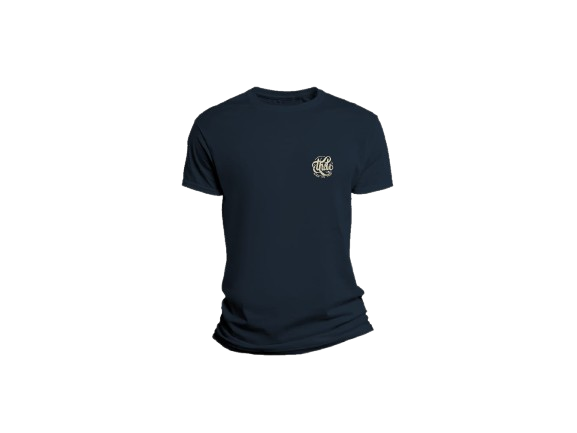
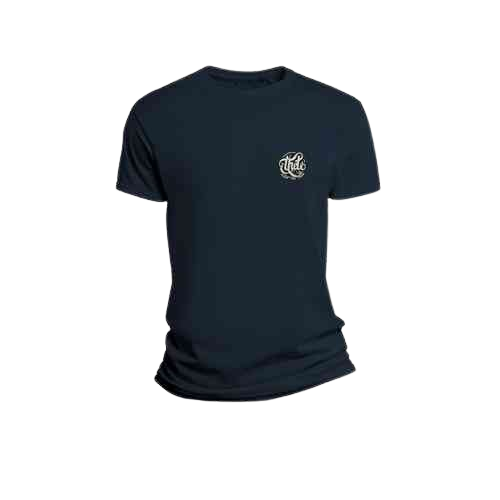
Add image carousel functionality to T-shirt component and include confetti effect on order click

Changed region(s): [[0.21, 0.1201, 0.78, 0.8406], [0.54, 0.3002, 0.63, 0.4203]]

diff --git a/src/Component/Tshirt.jsx b/src/Component/Tshirt.jsx
@@ -1,14 +1,37 @@
-import React from 'react';
-import { Box, Typography, Button, CardMedia, Grid, Slide, Fade } from '@mui/material';
+import React, { useState } from 'react';
+import { Box, Typography, Button, CardMedia, Grid, Slide, Fade, IconButton } from '@mui/material';
+import { ArrowBackIos, ArrowForwardIos } from '@mui/icons-material';
 import Footer from "../Component/Footer";
 import Navbar from "../Component/Navbar";
-import { tshirtImage } from "../utility/data";
-import { backgroundImage } from "../utility/data";
+import confetti from 'canvas-confetti';
+import { tshirtFrontImage, tshirtBackImage, backgroundImage } from "../utility/data";
 
 const TShirtPage = () => {
+  const [currentImage, setCurrentImage] = useState(0);
+  const images = [tshirtFrontImage, tshirtBackImage];
+
+  const handleNext = () => {
+    setCurrentImage((prev) => (prev + 1) % images.length);
+  };
+
+  const handlePrev = () => {
+    setCurrentImage((prev) => (prev - 1 + images.length) % images.length);
+  };
+
+  const handleOrderClick = () => {
+    // Trigger confetti
+    confetti({
+      particleCount: 200,
+      spread: 70,
+      origin: { y: 0.6 },
+    });
+    setTimeout(() => {
+      window.open('https://forms.gle/BYyT7hvovJp3rx1K8', '_blank');
+    }, 1500); // 1000 ms = 1 second
+  };
+
   return (
     <>
-      {/* Background + Overlay */}
       <Box
         sx={{
           width: '100%',
@@ -23,7 +46,6 @@ const TShirtPage = () => {
           px: { xs: 2, sm: 4 },
         }}
       >
-        {/* Overlay */}
         <Box
           sx={{
             position: 'absolute',
@@ -37,7 +59,6 @@ const TShirtPage = () => {
         />
         <Navbar />
         
-        {/* Slide + Fade */}
         <Fade in={true} timeout={800}>
           <Slide direction="up" in={true} timeout={800}>
             <Grid 
@@ -55,21 +76,49 @@ const TShirtPage = () => {
               }}
             >
               {/* Left Side (T-shirt Image) */}
-              <Grid item xs={12} md={6}>
+              <Grid item xs={12} md={6} sx={{ position: 'relative' }}>
                 <CardMedia
                   component="img"
-                  image={tshirtImage}
+                  image={images[currentImage]}
                   alt="T-shirt"
                   sx={{
                     width: '100%',
                     height: '100%',
                     objectFit: 'cover',
                     transition: 'transform 0.4s ease',
-                    '&:hover': {
-                      transform: 'scale(1.05)',
-                    },
+                    '&:hover': { transform: 'scale(1.05)' },
                   }}
                 />
+                {/* Left Arrow */}
+                <IconButton
+                  onClick={handlePrev}
+                  sx={{
+                    position: 'absolute',
+                    top: '50%',
+                    left: 15,
+                    transform: 'translateY(-50%)',
+                    backgroundColor: 'rgba(0, 0, 0, 0.6)',
+                    color: '#fff',
+                    '&:hover': { backgroundColor: 'rgba(0, 0, 0, 0.8)' }
+                  }}
+                >
+                  <ArrowBackIos />
+                </IconButton>
+                {/* Right Arrow */}
+                <IconButton
+                  onClick={handleNext}
+                  sx={{
+                    position: 'absolute',
+                    top: '50%',
+                    right: 10,
+                    transform: 'translateY(-50%)',
+                    backgroundColor: 'rgba(0, 0, 0, 0.6)',
+                    color: '#fff',
+                    '&:hover': { backgroundColor: 'rgba(0, 0, 0, 0.8)' }
+                  }}
+                >
+                  <ArrowForwardIos />
+                </IconButton>
               </Grid>
 
               {/* Right Side (Centered Text & Button) */}
@@ -86,13 +135,12 @@ const TShirtPage = () => {
                   p: 3,
                 }}
               >
-                {/* Title */}
                 <Typography
                   sx={{
                     fontWeight: 'bold',
-                    fontSize: { xs: '1.3rem', sm: '2.4rem', }, // Custom size
+                    fontSize: { xs: '1.3rem', sm: '2.4rem' },
                     fontFamily: "'Roboto', sans-serif",
-                    background: 'linear-gradient(90deg, #7d3cff, #ff7f50, #ff4500, #9370db);', // Custom gradient
+                    background: 'linear-gradient(90deg, #7d3cff, #ff7f50, #ff4500, #9370db)',
                     WebkitBackgroundClip: 'text',
                     WebkitTextFillColor: 'transparent',
                     mb: 2,
@@ -101,7 +149,6 @@ const TShirtPage = () => {
                   Theta 2025 Exclusive T-shirt
                 </Typography>
 
-                {/* Description */}
                 <Typography
                   variant="h6"
                   sx={{
@@ -112,30 +159,30 @@ const TShirtPage = () => {
                     mb: 3,
                   }}
                 >
-                  Celebrate Theta 2025 in style with this premium, comfortable T-shirt — available in multiple sizes. Grab yours before it's gone! 
+                 Get your exclusive Theta 2K25 T-shirt for just ₹200! Stylish, comfortable, and available in multiple sizes — don’t miss out!
                 </Typography>
 
-                {/* Button */}
                 <Button
-                  variant="contained"
-                  sx={{
-                    background: 'linear-gradient(90deg, #ff5733, #ff33ff)', // Custom gradient
-                    color: '#fff',
-                    fontFamily: "'Roboto', sans-serif",
-                    fontWeight: 'bold',
-                    padding: '14px 34px',
-                    borderRadius: '30px',
-                    boxShadow: '0 4px 10px rgba(0,0,0,0.3)',
-                    transition: 'transform 0.3s ease',
-                    '&:hover': {
-                      background: 'linear-gradient(90deg, #ff33ff, #ff5733)',
-                      transform: 'scale(1.08)',
-                      boxShadow: '0 6px 15px rgba(0,0,0,0.4)',
-                    },
-                  }}
-                >
-                  Order Now — Limited Stock!
-                </Button>
+  variant="contained"
+  onClick={handleOrderClick}
+  sx={{
+    background: 'linear-gradient(90deg, #ff5733, #ff33ff)',
+    color: '#fff',
+    fontFamily: "'Roboto', sans-serif",
+    fontWeight: 'bold',
+    padding: '14px 34px',
+    borderRadius: '30px',
+    boxShadow: '0 4px 10px rgba(0,0,0,0.3)',
+    transition: 'transform 0.3s ease',
+    '&:hover': {
+      background: 'linear-gradient(90deg, #ff33ff, #ff5733)',
+      transform: 'scale(1.08)',
+      boxShadow: '0 6px 15px rgba(0,0,0,0.4)',
+    },
+  }}
+>
+  Order Now — Limited Stock!
+</Button>
               </Grid>
             </Grid>
           </Slide>

diff --git a/src/Component/Navbar.jsx b/src/Component/Navbar.jsx
@@ -88,14 +88,12 @@ export default function Navbar(props) {
   // Navigation items
   const navItems = [
     { link: "/", name: "Home" },
+  //  { link: "/Tshirt", name: "Tshirt" },
     { link: "/gallery", name: "Gallery" },
     { link: "/Workshops", name: "Workshops" },
     { link: "/allEvents", name: "Events" },
     !isMdUp && { link: "/Cluster", name: "Clusters" },
     { link: "/contact-us", name: "Contact Us" },
-  // { link: "/Tshirt", name: "Tshirt" },
-   
-    
   ].filter(Boolean); // Remove falsy values
 
   // Drawer component for mobile navigation

diff --git a/src/utility/data.js b/src/utility/data.js
@@ -16,7 +16,8 @@ export const brands = [
   { id: 13, img: "Assets/Sponsors/mrs.png" },
 ];
 // Path to T-shirt image
-export const tshirtImage = './Assets/frontimg.png'; // Replace with actual path
+export const tshirtFrontImage = './Assets/backimg.png'; // Replace with actual path
+export const tshirtBackImage = './Assets/frontimg.png'; // Replace with actual path
 
 // Path to Background Image
 export const backgroundImage = './Assets/tbg.jpeg'; 
